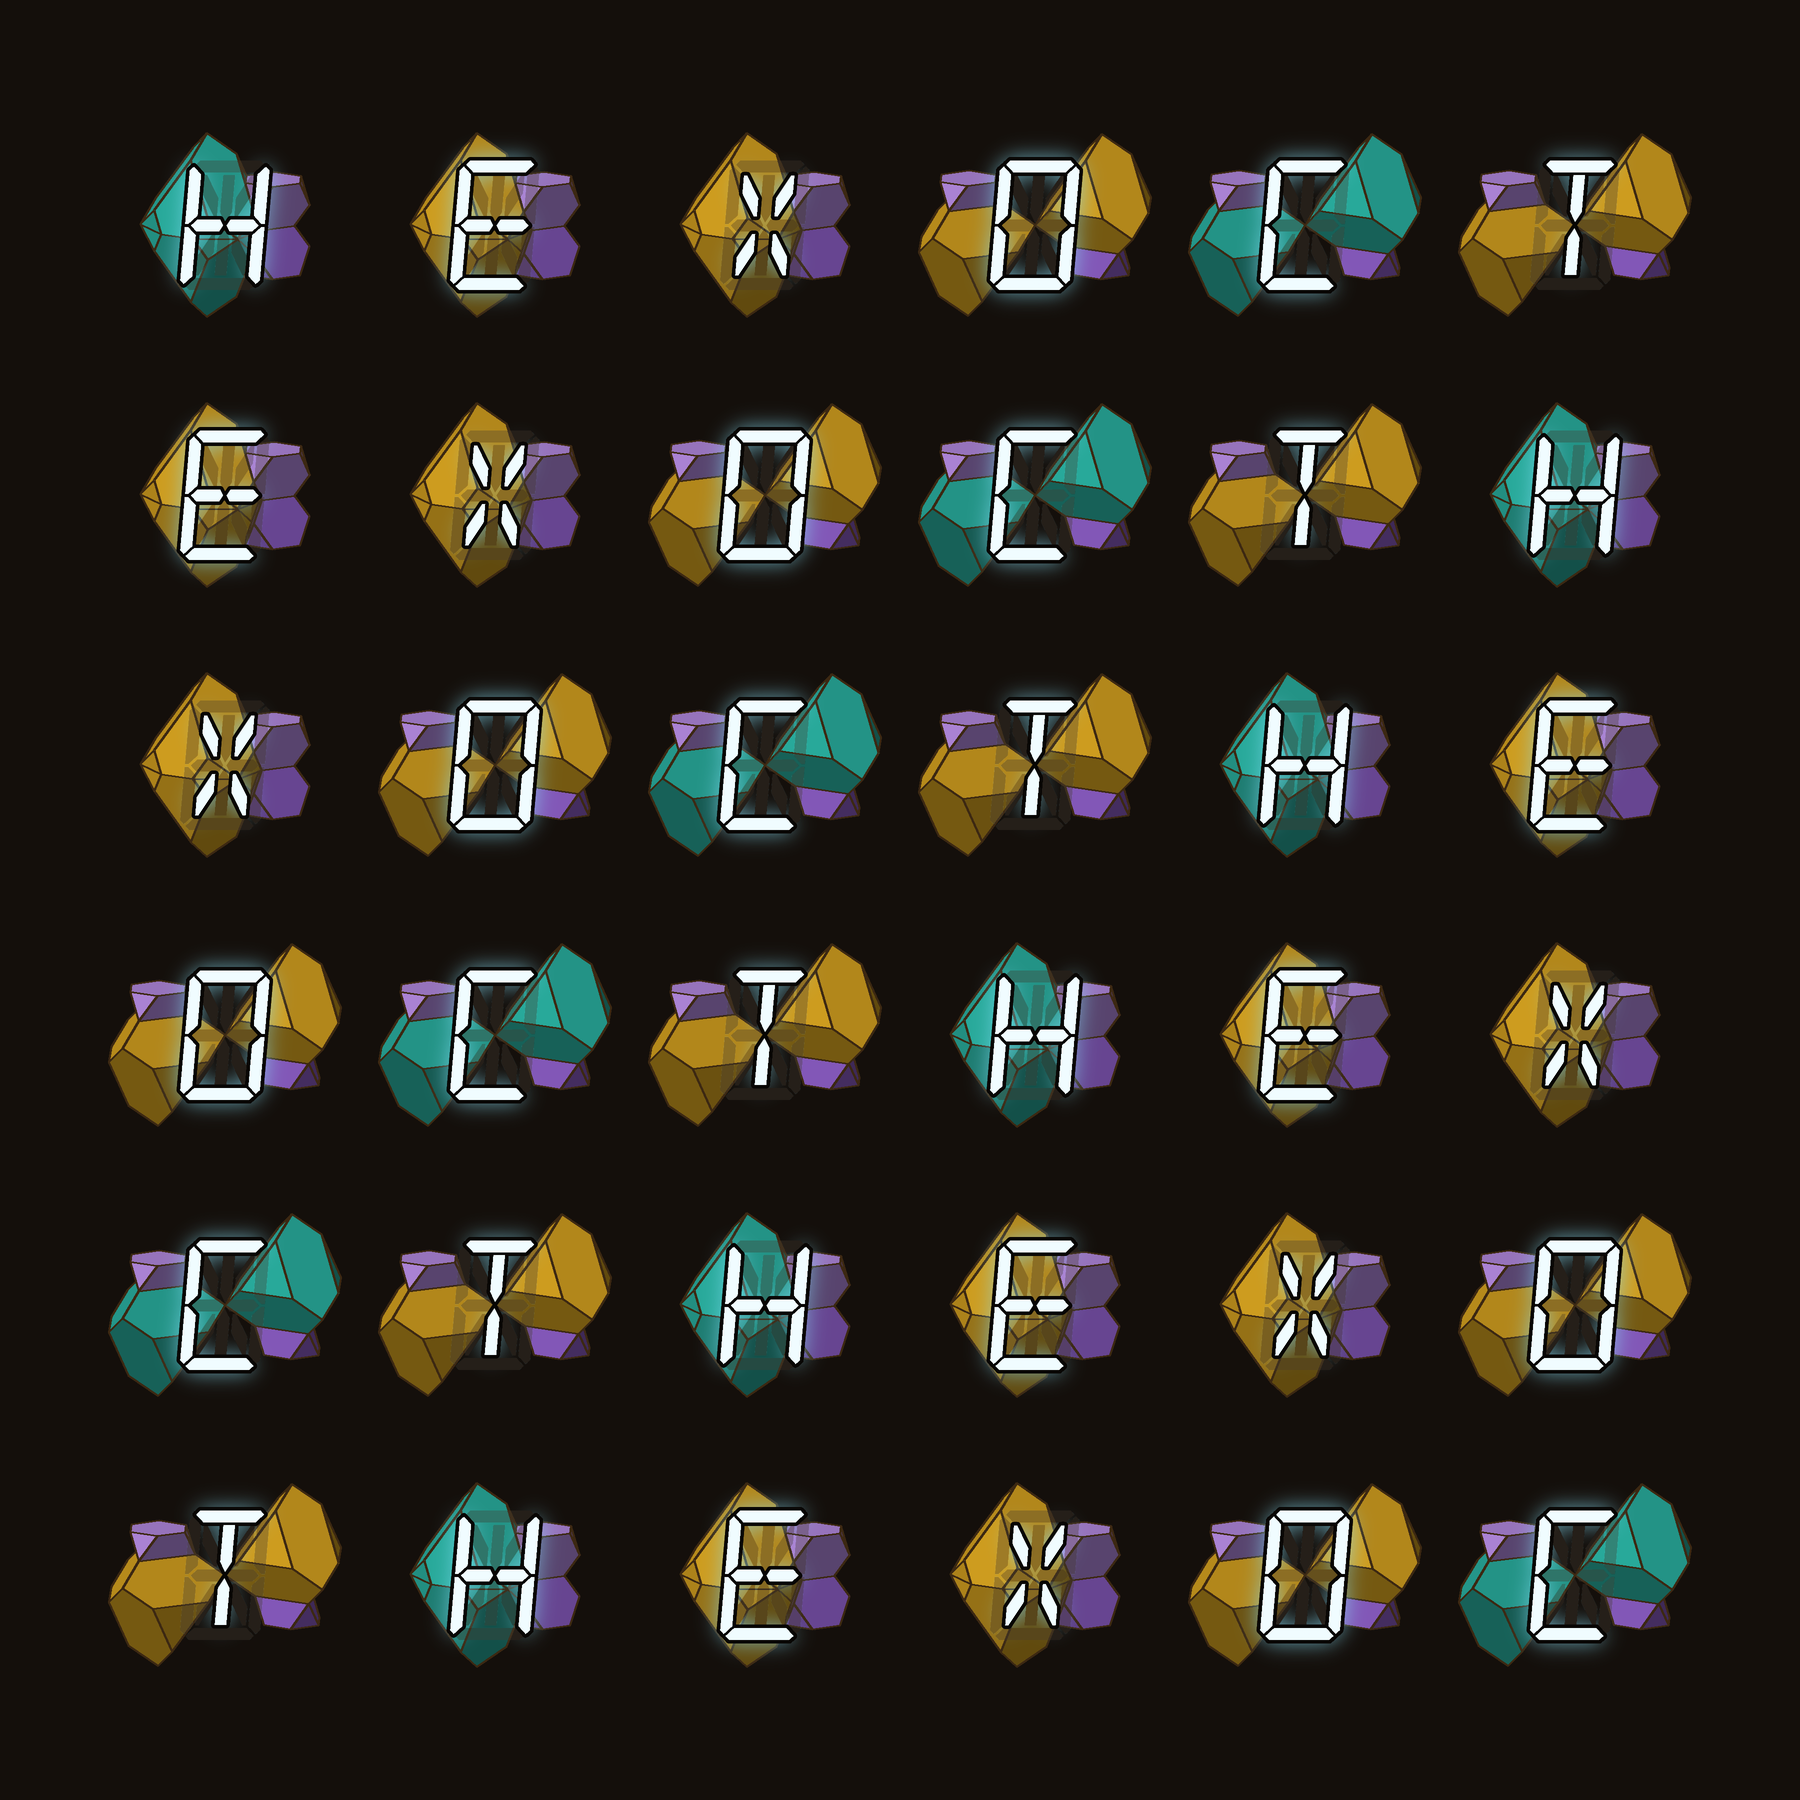
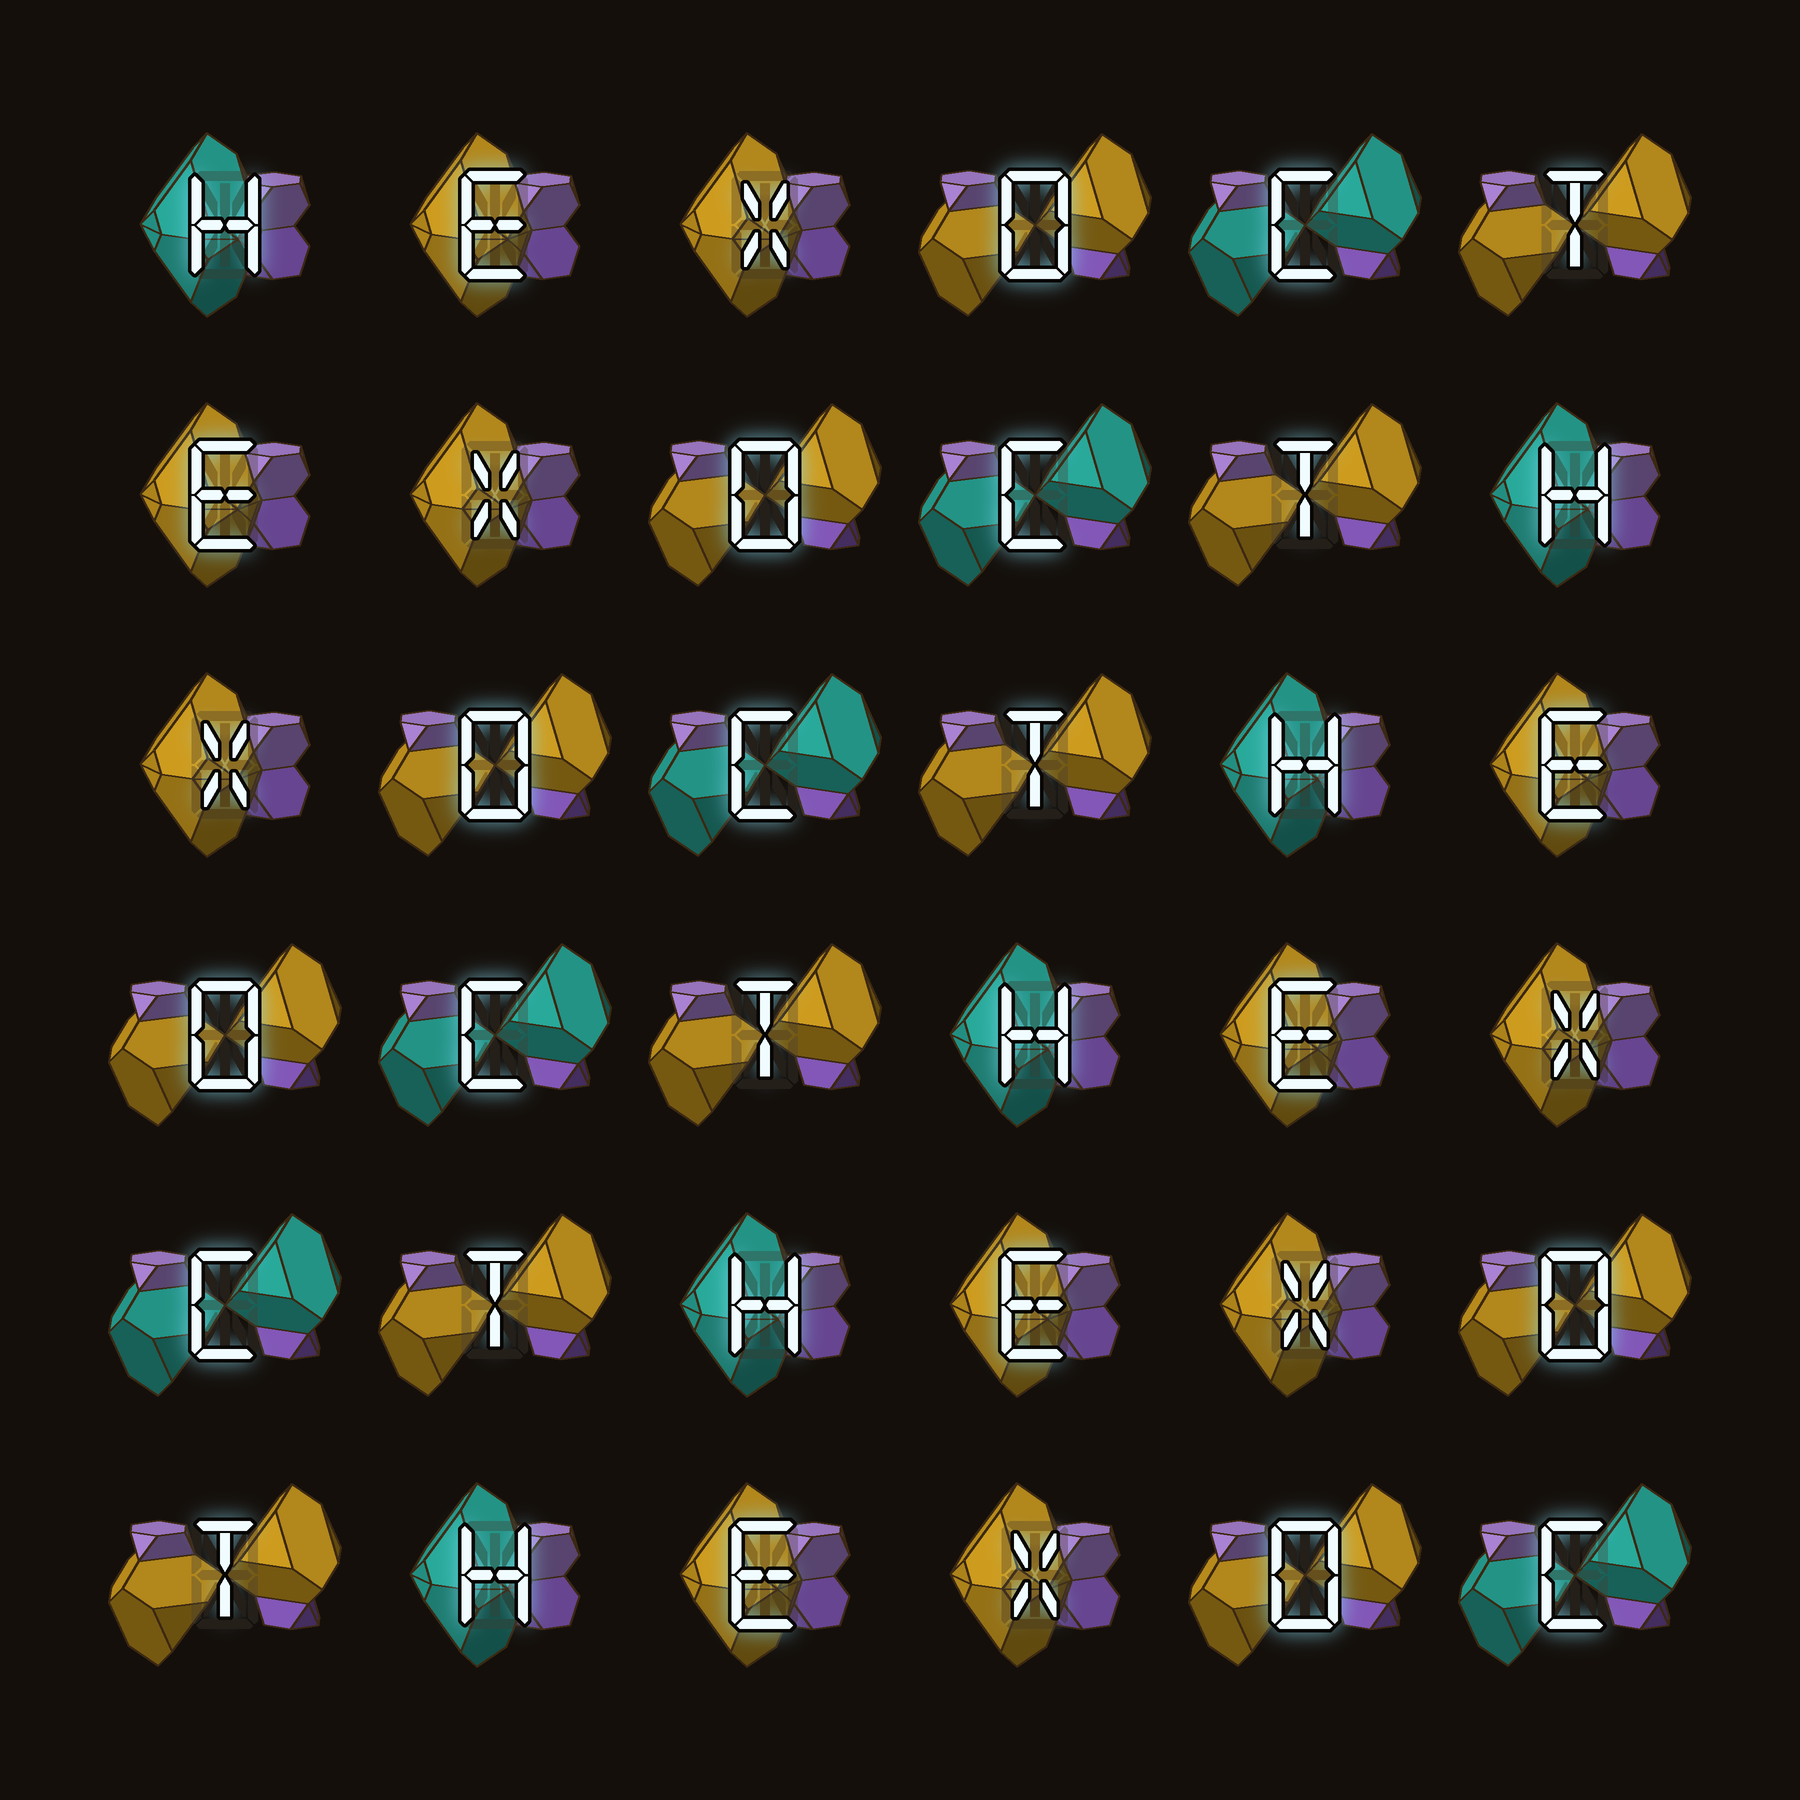
HexOct square: upright LED letters, smaller (DICTO 10-29)

diff --git a/studies/2026-10-29-hexoct-cover/scripts/hexoct_square.py b/studies/2026-10-29-hexoct-cover/scripts/hexoct_square.py
@@ -56,7 +56,7 @@ for i in range(6):
 # Letters as an LED display (DICTO 10-29: like his font Timer, DS-Digital and LED Real, "LED style script with stepped parts";
 # earlier tries, Trajan, dot-matrix, Righteous and Baumans, dropped): DSEG14 Classic Italic (OFL, keshikan), a slanted
 # 14-segment LED face. Lit segments glow cool white over a thin dark edge; unlit segments ('~' lights all 14) show faintly.
-f = ImageFont.truetype(os.environ.get('LEDFONT', 'DSEG14Classic-Italic.ttf'), int(0.072 * W))
+f = ImageFont.truetype(os.environ.get('LEDFONT', 'DSEG14Classic-Regular.ttf'), int(0.06 * W))
 def carved(ch):
     box = int(0.13 * W); edge = int(0.0022 * W)
     def lay(t, sw=0):

diff --git a/studies/2026-10-29-hexoct-cover/README.md b/studies/2026-10-29-hexoct-cover/README.md
@@ -2,7 +2,7 @@
 
 DICTO's idea (2026-10-29): a square cover for "HexOct: The Laws of Stacking" like the DICTO square, 6 × 6, letters H E X O C T, with the two HexOct tiles.
 
-**Conclusion:** LED versions made (italic and upright), matching tiles in teal. Status: shown to DICTO, awaiting his pick.
+**Conclusion:** LED cover chosen: upright DSEG14 Classic (DICTO: "straight", letters a little smaller, 0.06 of the width), matching tiles in teal. Status: final candidate, awaiting DICTO.
 
 - Cyclic Latin square: cell (i, j) holds letter (i + j) mod 6 of HEXOCT. HEXOCT reads across the top and down the left; each letter appears once in every row and every column and runs in one diagonal stripe.
 - Shapes: H, E, X on the h-tile and O, C, T on the c-tile (Hex | Oct). The tiles are the exact c-tile (from ABC) and h-tile (from AB) of #75 at λ = 1/10, built by tiles.py. Colours as in #75: tetrahedral pieces gold, octahedral halves violet. Same view and scale for both tiles.
